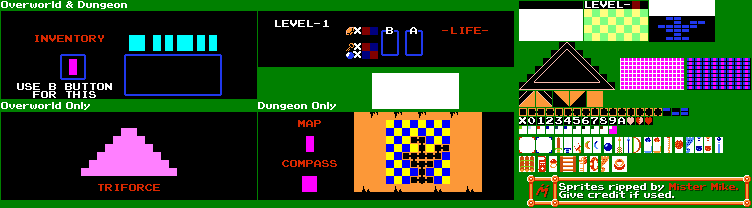
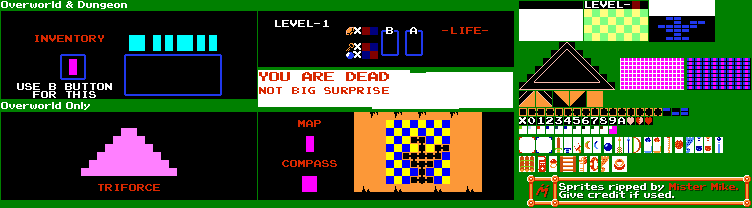
Implements lazy GameOver functionality

Changed region(s): [[0.3364, 0.3173, 0.5505, 0.5481], [0.5811, 0.3462, 0.7035, 0.5192]]

diff --git a/sprint0Real/Controllers/KeyboardController.cs b/sprint0Real/Controllers/KeyboardController.cs
@@ -16,6 +16,7 @@ namespace sprint0Real.Controllers
         private Dictionary<Keys, ICommand> releaseCommands;
         private Dictionary<Keys, ICommand> MenuCommands;
         private Dictionary<Keys, ICommand> PauseCommands;
+        private Dictionary<Keys, ICommand> GameOverCommands;
 
         private Dictionary<Keys, bool> keyPreviouslyPressed;
 
@@ -32,9 +33,6 @@ namespace sprint0Real.Controllers
 
             keyPreviouslyPressed = new Dictionary<Keys, bool>();
             _game = game;
-            blockTexture = _game.Content.Load<Texture2D>("NES - The Legend of Zelda - Dungeon Tileset");
-            itemTexture = _game.Content.Load<Texture2D>("NES - The Legend of Zelda - Items & Weapons");
-
 
             //commands.Add(Keys.Y, new NextBlockCommand(_game, blockTexture));
             //commands.Add(Keys.T, new PreviousBlockCommand(_game, blockTexture));
@@ -56,6 +54,7 @@ namespace sprint0Real.Controllers
             commands.Add(Keys.R, new ResetCommand(_game));
             commands.Add(Keys.P, new PauseCommand(_game));
             commands.Add(Keys.M, new MenuCommand(_game));
+            commands.Add(Keys.L, new GameOverCommand(_game));
 
             commands.Add(Keys.D1, new ItemChangeCommand(_game, 1));
             commands.Add(Keys.D2, new ItemChangeCommand(_game, 2));
@@ -102,6 +101,10 @@ namespace sprint0Real.Controllers
             PauseCommands.Add(Keys.P, new PauseCommand(_game));
             PauseCommands.Add(Keys.Q, new QuitCommand(_game));
 
+            GameOverCommands = new Dictionary<Keys, ICommand>();
+
+            GameOverCommands.Add(Keys.Q, new QuitCommand(_game));
+
             foreach (Keys key in commands.Keys)
             {
                 keyPreviouslyPressed[key] = false;
@@ -128,6 +131,21 @@ namespace sprint0Real.Controllers
             if (_game.currentGameState == GameState.GameStates.Pause)
             {
                 foreach (var command in PauseCommands)
+                {
+                    Keys key = command.Key;
+                    bool isKeyDown = KeyboardState.IsKeyDown(key);
+
+                    if (isKeyDown && !keyPreviouslyPressed[key])
+                    {
+                        command.Value.Execute();
+                    }
+                    //update state
+                    keyPreviouslyPressed[key] = isKeyDown;
+                }
+            }
+            else if (_game.currentGameState == GameState.GameStates.GameOver)
+            {
+                foreach (var command in GameOverCommands)
                 {
                     Keys key = command.Key;
                     bool isKeyDown = KeyboardState.IsKeyDown(key);

diff --git a/sprint0Real/Game1.cs b/sprint0Real/Game1.cs
@@ -37,6 +37,7 @@ namespace sprint0Real
         //TEMP SET PUBLIC UNTIL BETTER SOLUTION FOUND
         public GameStates currentGameState;
         public TitleScreen titleScreen;
+        public GameOverUI GameOverScreen;
         public Song Dungeon;
 
         public ILink Link;
@@ -179,6 +180,14 @@ namespace sprint0Real
                 case GameStates.TitleScreen:
                     currentGameState = titleScreen.Update(gameTime, this);
                     break;
+                case GameStates.GameOver:
+                    GameOverScreen.Update(gameTime, this);
+                    foreach (IController controller in controllerList)
+                    {
+                        controller.Update(gameTime);
+
+                    }
+                    break;
                 case GameStates.Pause:
                     foreach (IController controller in controllerList)
                     {
@@ -238,7 +247,8 @@ namespace sprint0Real
 
                     Link.ApplyMomentum();
                     CurrentMap.Instance.Update(gameTime);
-                    
+
+                    if (Link.GetCurrentHealth() == 0) currentGameState = GameStates.GameOver;
 
                     break;
             }
@@ -252,7 +262,9 @@ namespace sprint0Real
                 case GameStates.TitleScreen:
                     titleScreen.Draw(_spriteBatch, GraphicsDevice);
                     break;
-
+                case GameStates.GameOver:
+                    GameOverScreen.Draw(_spriteBatch);
+                    break;
                 case GameStates.Pause:
                     //We still want things to be drawn, just not updated
                     transform = Matrix.CreateTranslation(-_camera.GetTopLeft().X, -_camera.GetTopLeft().Y, 0);
@@ -358,6 +370,8 @@ namespace sprint0Real
             UISprite = new UI(UISheet, Link);
             MenuUISprite = new MenuUI(UISheet);
             PauseUISprite = new PauseUI(UISheet);
+
+            GameOverScreen = new GameOverUI(UISheet);
             weaponItemsA = new NullSprite(linkSheet, this);
             weaponItemsB = new NullSprite(linkSheet, this);
             Link = new Link(this);

diff --git a/sprint0Real/MenusAndUI/GameOverUI.cs b/sprint0Real/MenusAndUI/GameOverUI.cs
@@ -1,0 +1,57 @@
+using Microsoft.Xna.Framework;
+using Microsoft.Xna.Framework.Graphics;
+using sprint0Real;
+using sprint0Real.Interfaces;
+using System;
+using System.Diagnostics;
+
+
+public class GameOverUI
+{
+
+    private Texture2D texture;
+
+    const int SCALE = Game1.RENDERSCALE;
+    private readonly Rectangle BackgroundSourceRectangle = new(260, 42, 1, 1);
+    private readonly Rectangle TextSourceRectangle = new(259, 72, 130, 22);
+    private readonly Rectangle BackgroundDestination = new(0, 0, Game1.SCREENWIDTH, Game1.SCREENHEIGHT);
+    private readonly Rectangle TextDestination = new(Game1.SCREENMIDX - 65 * SCALE, Game1.SCREENMIDY - 11 * SCALE, 130 * SCALE, 22 * SCALE);
+
+    private Rectangle DestinationRectangle;
+
+    private TimeSpan PassedTime;
+    private readonly TimeSpan ScreenLength = TimeSpan.FromSeconds(3);
+    private bool FirstTime;
+
+    public GameOverUI(Texture2D uITexture)
+    {
+        texture = uITexture;
+        FirstTime = true;
+        PassedTime = TimeSpan.Zero;
+    }
+
+    public void Draw(SpriteBatch spriteBatch)
+    {
+        spriteBatch.Begin(SpriteSortMode.Deferred, null, SamplerState.PointClamp);
+        spriteBatch.Draw(texture, BackgroundDestination, BackgroundSourceRectangle, Color.White);
+
+        spriteBatch.Draw(texture, TextDestination, TextSourceRectangle, Color.White);
+        spriteBatch.End();
+    }
+
+    //Static sprite, no need to update
+    public void Update(GameTime gametime, Game Game)
+    {
+        if (FirstTime)
+        {
+            PassedTime += gametime.ElapsedGameTime;
+            if (TimeSpan.Compare(PassedTime, ScreenLength) != -1)
+            {
+                Game.Exit();
+            }
+
+        }
+    }
+}
+
+

diff --git a/sprint0Real/Commands/KeyboardCommands/GameOverCommand.cs b/sprint0Real/Commands/KeyboardCommands/GameOverCommand.cs
@@ -1,0 +1,22 @@
+using Microsoft.Xna.Framework;
+using Microsoft.Xna.Framework.Graphics;
+using Microsoft.Xna.Framework.Input;
+using sprint0Real.Collisions;
+using sprint0Real.Interfaces;
+
+namespace sprint0Real.Commands.KeyboardCommands
+{
+    public class GameOverCommand : ICommand
+    {
+        private Game1 _game;
+        public GameOverCommand(Game1 game)
+        {
+            _game = game;
+        }
+
+        public void Execute()
+        {
+            _game.currentGameState = GameState.GameStates.GameOver;
+        }
+    }
+}

diff --git a/sprint0Real/MenusAndUI/PauseUI.cs b/sprint0Real/MenusAndUI/PauseUI.cs
@@ -10,7 +10,7 @@ public class PauseUI : IUI
 
     private Texture2D texture;
 
-    private Rectangle SourceRectangle = new Rectangle(372, 73, 87, 36);
+    private readonly Rectangle SourceRectangle = new(426, 72, 87, 36);
     private Rectangle DestinationRectangle;
     public PauseUI(Texture2D uITexture)
     {

diff --git a/sprint0Real/GameState/GameState.cs b/sprint0Real/GameState/GameState.cs
@@ -14,7 +14,8 @@ namespace sprint0Real.GameState
         MenuTransition,
         Pause,
         Exit,
-        LevelTransition
+        LevelTransition,
+        GameOver
     }
     internal class GameState
     {
